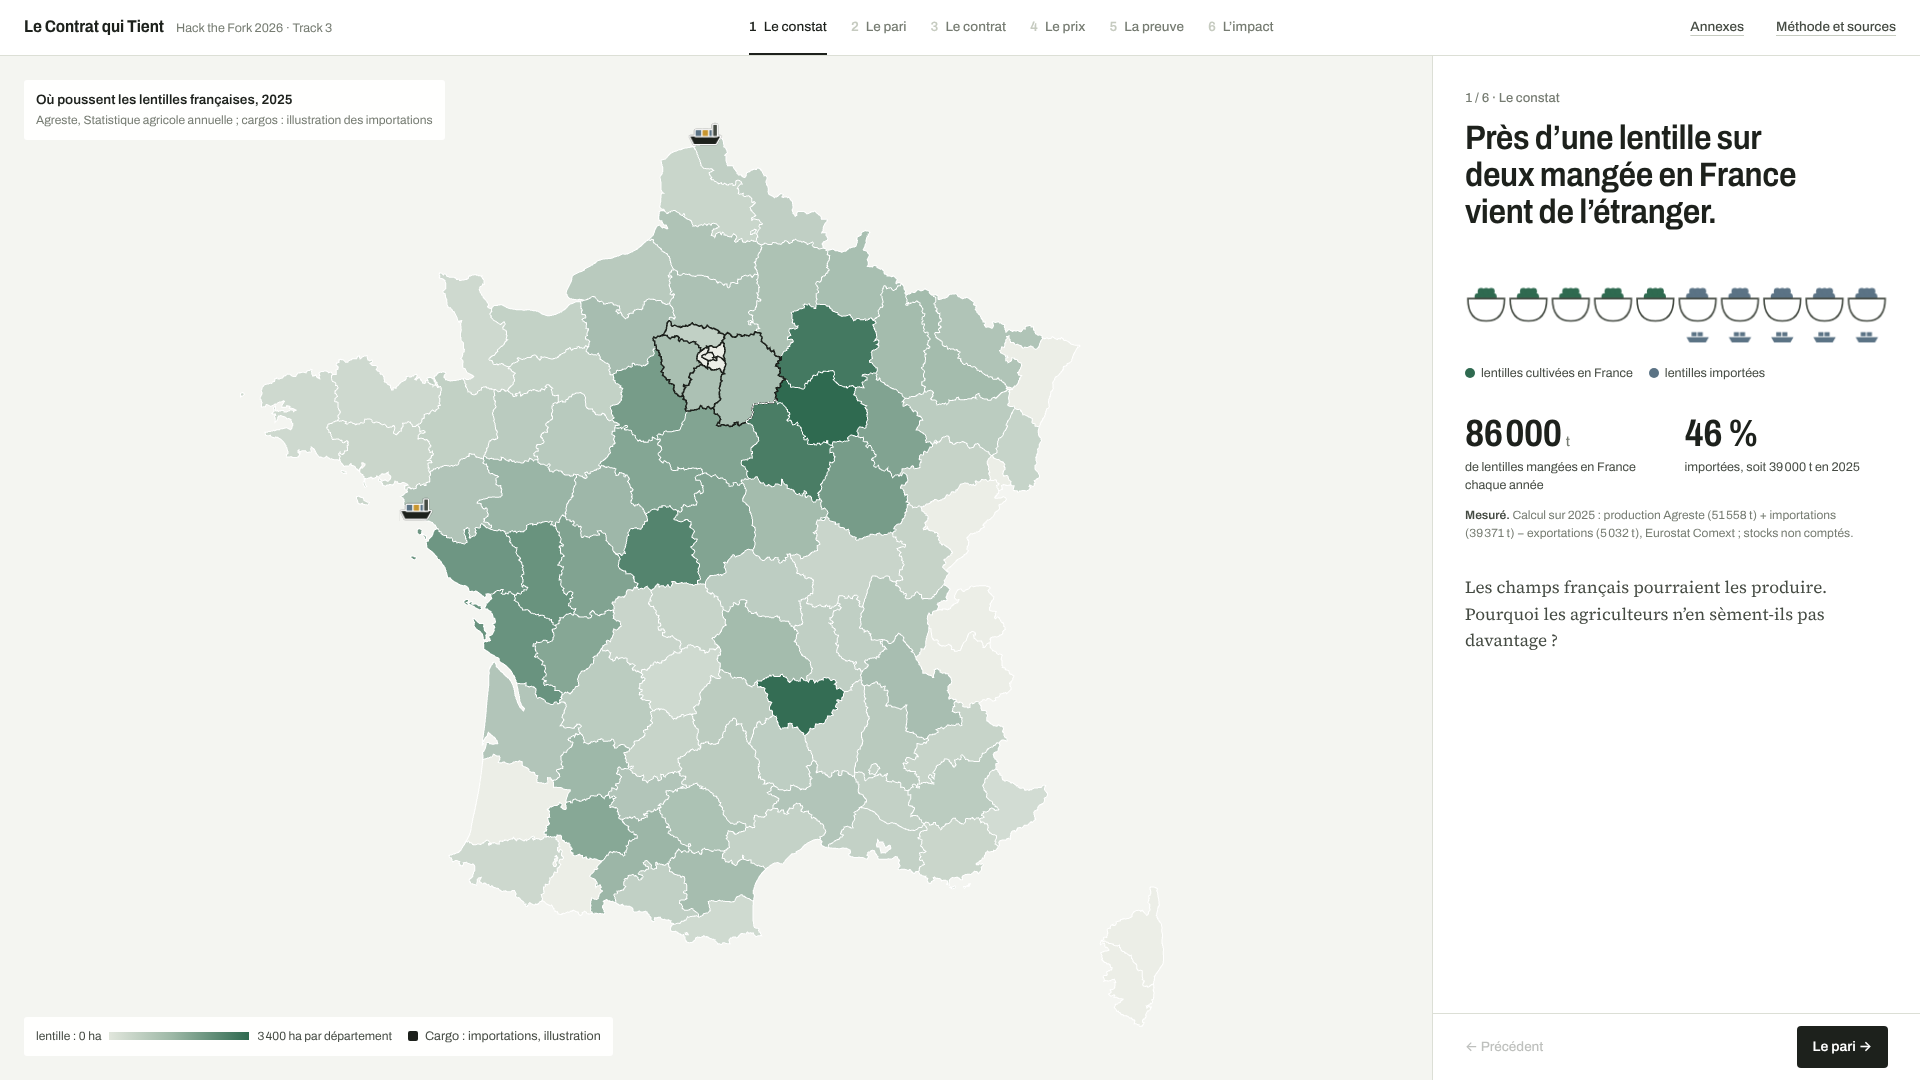
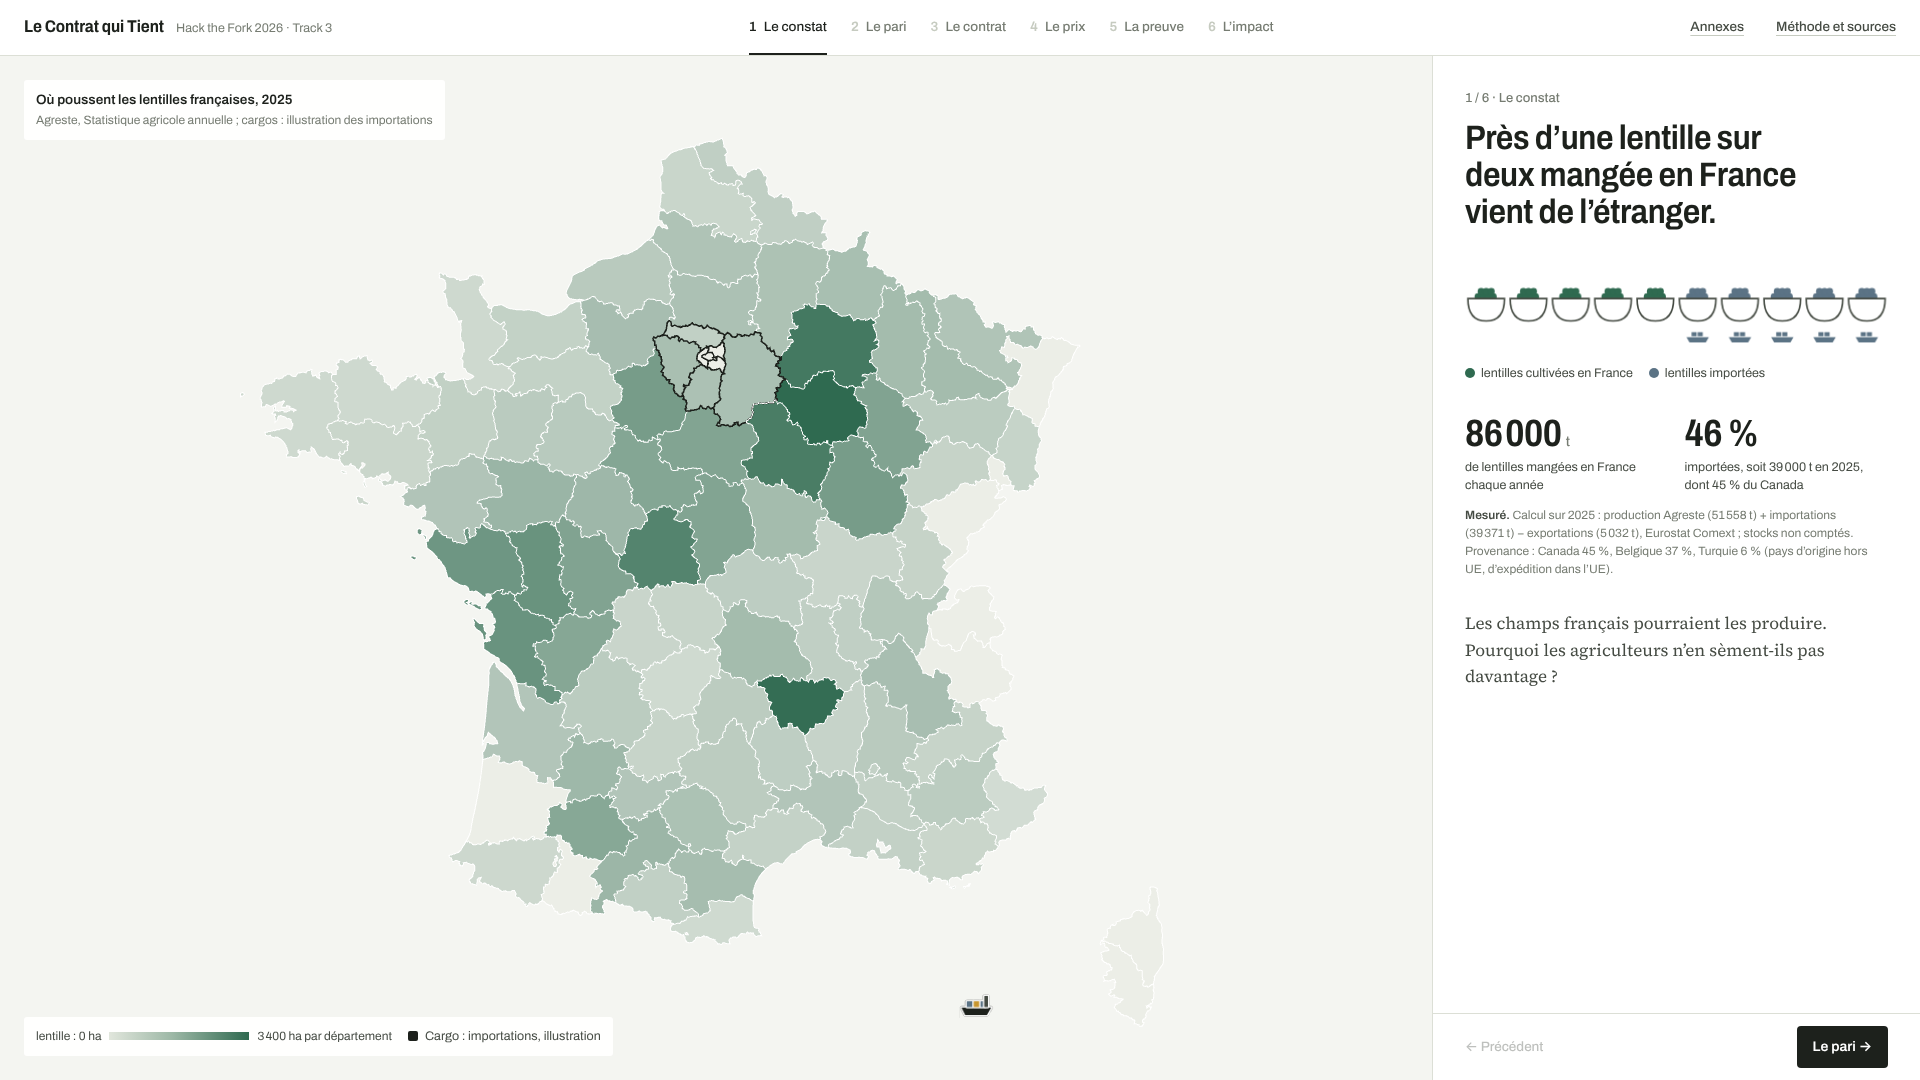
Écran 1 : provenance des lentilles importées (Comext 2025)
45 % des importations viennent du Canada, 37 % de Belgique (pays
d'expédition), 6 % de Turquie. 00_prix_commerce.py exporte la
provenance par pays partenaire, 05_export.py la place dans meta.json ;
seule cette clé change. Test, résultats, sources, inventaire et notes de
pitch à jour.

Claude-Session: https://claude.ai/code/session_015xc9sW8eqY5kEx39k7wsjx

diff --git a/app/src/App.tsx b/app/src/App.tsx
@@ -79,6 +79,9 @@ const BT_ANNEES = [2020, 2021, 2022];
 const ASSUR70 = CONTRATS.assurance.niveaux.find((n) => n.seuil === 0.7)!;
 const FR_SORTED = [...(meta.france as { dep: string; nom: string; p_star: number }[])].sort((a, b) => a.p_star - b.p_star);
 const btC = (a: number) => (backtest.annees.find((y) => y.annee === a) as any).contrats as Record<string, number>;
+// Provenance des importations de 2025 (Comext) : pays d'origine hors UE, d'expédition dans l'UE.
+const ORIG = (meta.lentille_2025 as unknown as { origines: { pays: string; tonnes: number; part: number }[] }).origines;
+const PAYS: Record<string, string> = { CA: 'Canada', BE: 'Belgique', TR: 'Turquie', PT: 'Portugal', US: 'États-Unis', DE: 'Allemagne' };
 const frDate = (iso: string) => new Date(`${iso}T12:00:00`).toLocaleDateString('fr-FR');
 const MAX_2020_21 = Math.max(...[2020, 2021].flatMap((a) => Object.values(btC(a))));
 const FIXES_2022 = ['uneal_2023', 'natup_2023', 'proposition_2027'].map((k) => btC(2022)[k]);
@@ -488,9 +491,9 @@ export default function App() {
               <div className="block">
                 <div className="figures two">
                   <Figure value={fmt(round1000(PITCH.conso))} unit="t" label="de lentilles mangées en France chaque année" />
-                  <Figure value={pct(PITCH.partImportee)} label={`importées, soit ${fmt(round1000(L25.importations_t))} t en 2025`} />
+                  <Figure value={pct(PITCH.partImportee)} label={`importées, soit ${fmt(round1000(L25.importations_t))} t en 2025, dont ${pct(ORIG[0].part)} du ${PAYS[ORIG[0].pays] ?? ORIG[0].pays}`} />
                 </div>
-                <Source k="mesure">Calcul sur 2025 : production Agreste ({fmt(L25.production_t)} t) + importations ({fmt(L25.importations_t)} t) − exportations ({fmt(L25.exportations_t)} t), Eurostat Comext ; stocks non comptés.</Source>
+                <Source k="mesure">Calcul sur 2025 : production Agreste ({fmt(L25.production_t)} t) + importations ({fmt(L25.importations_t)} t) − exportations ({fmt(L25.exportations_t)} t), Eurostat Comext ; stocks non comptés. Provenance : {ORIG.slice(0, 3).map((o) => `${PAYS[o.pays] ?? o.pays} ${pct(o.part)}`).join(', ')} (pays d’origine hors UE, d’expédition dans l’UE).</Source>
               </div>
               <p className="lead">Les champs français pourraient les produire. Pourquoi les agriculteurs n’en sèment-ils pas davantage ?</p>
             </>

diff --git a/pipeline/00_prix_commerce.py b/pipeline/00_prix_commerce.py
@@ -4,7 +4,8 @@
   AM011100, nominal), chaîné sur la base 2015 = 100 puis calé en niveau sur le prix du blé
   rendu Rouen publié par Agreste pour la campagne 2019-2020 (178,8 €/t).
 - Prix de la lentille : prix de vente absolus Eurostat (apri_ap_crpouta, 02991000), France.
-- Commerce : Eurostat Comext (DS-045409), code NC8 07134000 (lentilles sèches), France.
+- Commerce : Eurostat Comext (DS-045409), code NC8 07134000 (lentilles sèches), France ; importations
+  de 2025 par pays partenaire (origine hors UE, expédition dans l'UE).
 Sorties : data/prix_ble.csv, data/prix_lentille_observes.csv, data/commerce_lentilles.csv.
 """
 import json
@@ -87,7 +88,21 @@ def commerce() -> pd.DataFrame:
     return pd.concat(out, axis=1).reset_index()
 
 
+def origines(annee: int = 2025) -> pd.DataFrame:
+    """Importations de lentilles par pays partenaire : pays d'origine hors UE, pays d'expédition dans l'UE."""
+    d = cube(fetch(f"comext_lentilles_origines_{annee}", COMEXT,
+                   {"format": "JSON", "lang": "EN", "freq": "A", "reporter": "FR", "product": "07134000",
+                    "flow": 1, "indicators": "QUANTITY_IN_100KG", "time": str(annee)}))
+    total = float(d[d.partner == "WORLD"].value.iloc[0]) / 10
+    pays = d[d.partner.str.fullmatch(r"[A-Z]{2}")].assign(tonnes=lambda x: (x.value / 10).round().astype(int))
+    pays = pays.sort_values("tonnes", ascending=False)[["partner", "tonnes"]].rename(columns={"partner": "pays"})
+    pays["part"] = (pays.tonnes / total).round(3)
+    pays.insert(0, "annee", annee)
+    return pays
+
+
 def main():
+    origines().to_csv(DATA / "commerce_lentilles_origines.csv", index=False)
     pb = prix_ble()
     pb.to_csv(DATA / "prix_ble.csv", index=False)
     pl = prix_lentille()

diff --git a/pipeline/05_export.py b/pipeline/05_export.py
@@ -217,7 +217,10 @@ def main():
                                    "annees": [int(prix_lent.annee.min()), int(prix_lent.annee.max())]},
         "lentille_2025": {"production_t": round(float(prod_lent.production_q[2025]) / 10),
                           "surface_ha": round(float(prod_lent.surface_ha[2025])),
-                          "importations_t": int(c25.importations_t), "exportations_t": int(c25.exportations_t)},
+                          "importations_t": int(c25.importations_t), "exportations_t": int(c25.exportations_t),
+                          # Pays d'origine hors UE, pays d'expédition dans l'UE (Comext).
+                          "origines": [{"pays": r.pays, "tonnes": int(r.tonnes), "part": float(r.part)}
+                                       for r in pd.read_csv(DATA / "commerce_lentilles_origines.csv").head(5).itertuples()]},
         "commerce": commerce.to_dict(orient="records"),
         "surface_lentille_par_dep_2025": surf_dep,
         "contrat_indexe": indexe,

diff --git a/tests/test_pipeline.py b/tests/test_pipeline.py
@@ -299,3 +299,12 @@ def test_new_contract_exports_are_consistent():
         assert a["prime_pure_eur_ha"] <= b["prime_pure_eur_ha"] and a["frequence_sinistre"] <= b["frequence_sinistre"]
     for k in ("tri_eur_t_brute", "collecte_fixe_eur_t_brute", "collecte_eur_t_brute_km", "sechage_eur_t_point"):
         assert c["couts_acheteur"][k] > 0
+
+
+def test_import_origins_are_consistent():
+    """Provenance des importations : parts entre 0 et 1, triées, inférieures au total importé."""
+    meta = json.loads((APP_DATA / "meta.json").read_text())
+    o = meta["lentille_2025"]["origines"]
+    parts = [x["part"] for x in o]
+    assert parts == sorted(parts, reverse=True) and 0 < sum(parts) <= 1
+    assert sum(x["tonnes"] for x in o) <= meta["lentille_2025"]["importations_t"]

diff --git a/docs/SOURCES.md b/docs/SOURCES.md
@@ -10,7 +10,7 @@ Chaque source utilisée, avec son étiquette et sa licence. À tenir à jour au 
 | `nasa_power` | NASA POWER | météo journalière | mesuré (réanalyse) | données publiques NASA, citation demandée | https://power.larc.nasa.gov/ |
 | `rpg` | IGN, Registre parcellaire graphique 2025, Île-de-France | parcelles déclarées | mesuré | Licence Ouverte Etalab [à vérifier] | https://data.geopf.fr/telechargement/resource/RPG/RPG_4-0__GPKG_LAMB93_R11_2025-01-01 |
 | `contours` | gregoiredavid/france-geojson (IGN Admin Express COG 2018) | contours des départements | mesuré | Licence Ouverte (Etalab), selon le dépôt | https://github.com/gregoiredavid/france-geojson |
-| `comext` | Eurostat Comext, DS-045409 | importations et exportations françaises de lentilles (NC8 07134000) | mesuré | réutilisation Eurostat autorisée avec citation | https://ec.europa.eu/eurostat/comext/newxtweb/ |
+| `comext` | Eurostat Comext, DS-045409 | importations et exportations françaises de lentilles (NC8 07134000) ; importations de 2025 par pays partenaire | mesuré | réutilisation Eurostat autorisée avec citation | https://ec.europa.eu/eurostat/comext/newxtweb/ |
 | `prix_ble` | Eurostat, apri_pi_outa (AM011100, nominal), calé sur le prix rendu Rouen Agreste 2019-2020 | prix du blé tendre 2010–2025 | mesuré | réutilisation Eurostat autorisée avec citation | https://ec.europa.eu/eurostat/databrowser/view/apri_pi_outa/default/table |
 | `prix_lentille` | Eurostat, apri_ap_crpouta (02991000) | prix de vente de la lentille, France, 2012–2016 | mesuré | réutilisation Eurostat autorisée avec citation | https://ec.europa.eu/eurostat/databrowser/view/apri_ap_crpouta/default/table |
 | `rendu_rouen` | Agreste, note de conjoncture grandes cultures | blé tendre rendu Rouen : 178,8 €/t en 2019-2020 | sourcé | Licence Ouverte [à vérifier] | https://agreste.agriculture.gouv.fr/agreste-web/download/publication/publie/SynGcu21367/consyn367202102GdesculturesV2.pdf |

diff --git a/docs/DATA_INVENTORY.md b/docs/DATA_INVENTORY.md
@@ -92,7 +92,7 @@ Aube et Marne présentent des rendements lentille identiques sur plusieurs anné
 
 - **Prix du blé tendre** : l'indice Eurostat des prix à la production (France, nominal) existe pour 2010–2025 en trois bases (2010, 2015, 2020). Il est chaîné sur la base 2015 et calé sur le prix rendu Rouen d'Agreste (178,8 €/t en 2019-2020). Les prix absolus Eurostat pour la France s'arrêtent en 2016 et sont incohérents avec l'indice (+39 % de 2010 à 2015, contre +3 % pour l'indice) : écartés.
 - **Prix de la lentille** : prix de vente Eurostat de 650 à 779 €/t sur 2012–2016. Les valeurs 2010 et 2011 (140 €/t) sont incohérentes avec la suite : écartées.
-- **Commerce** : Comext, NC8 07134000, France. Importations : 29 101 t (2020), 42 188 t (2024), 39 371 t (2025). Exportations : environ 5 000 t par an.
+- **Commerce** : Comext, NC8 07134000, France. Importations : 29 101 t (2020), 42 188 t (2024), 39 371 t (2025). Exportations : environ 5 000 t par an. Provenance 2025 : Canada 17 540 t (45 %), Belgique 14 359 t (37 %), Turquie 2 314 t (6 %), Portugal, États-Unis ; Comext donne le pays d'origine hors UE et le pays d'expédition dans l'UE, d'où la Belgique, qui en produit peu.
 
 ## 5. Estimations régionales dans Agreste
 

diff --git a/docs/PITCH_NOTES.md b/docs/PITCH_NOTES.md
@@ -15,6 +15,7 @@
 
 | Question | Réponse courte |
 |---|---|
+| D'où viennent les lentilles importées ? | Du Canada pour 45 %, de Belgique pour 37 % (pays d'expédition, qui en produit peu), de Turquie pour 6 % (Comext 2025). |
 | Ça finit au bétail ? | Non : des lentilles pour l'alimentation humaine, achetées par un conditionneur de légumes secs. Le prix garanti ne s'applique qu'aux tonnes acceptées au tri. |
 | Vous payez quelles tonnes ? | Les tonnes acceptées au tri, comme dans tout contrat de collecte : un lot refusé (bruche, impuretés, calibre) ne touche pas le prix garanti. Agreste mesure la récolte avant ce tri ; on retire 10 %, une seule fois. À 0 % de refus, le prix plancher serait de 1 411 €/t ; à 20 %, de 1 763 €/t. |
 | Où est l'IA ? | Un modèle d'apprentissage probabiliste : il apprend sur 294 couples département × année comment la météo déplace la distribution du rendement. Deux modèles entraînés et comparés (régression quantile, LightGBM), calibrés par conformal prediction, validés sur des années jamais vues. |

diff --git a/docs/RESULTATS.md b/docs/RESULTATS.md
@@ -7,6 +7,8 @@ Calculés par le pipeline (`make export`) le 31 octobre 2026, avec le scénario 
 | Indicateur | Valeur | Source |
 |---|---|---|
 | Importations de lentilles, 2025 | 39 371 t | Eurostat Comext, NC8 0713 40 |
+| Provenance des importations, 2025 | Canada 45 %, Belgique 37 %, Turquie 6 % (pays d'origine hors UE, d'expédition dans l'UE) | Eurostat Comext |
+| Consommation apparente, 2025 | 85 897 t, dont 46 % importées (production + importations − exportations, stocks non comptés) | Agreste SAA, Eurostat Comext |
 | Exportations de lentilles, 2025 | 5 032 t | Eurostat Comext |
 | Production de lentilles, 2025 | 51 558 t (provisoire) | Agreste SAA |
 | Surface en lentille, 2025 | 33 927 ha | Agreste SAA |
